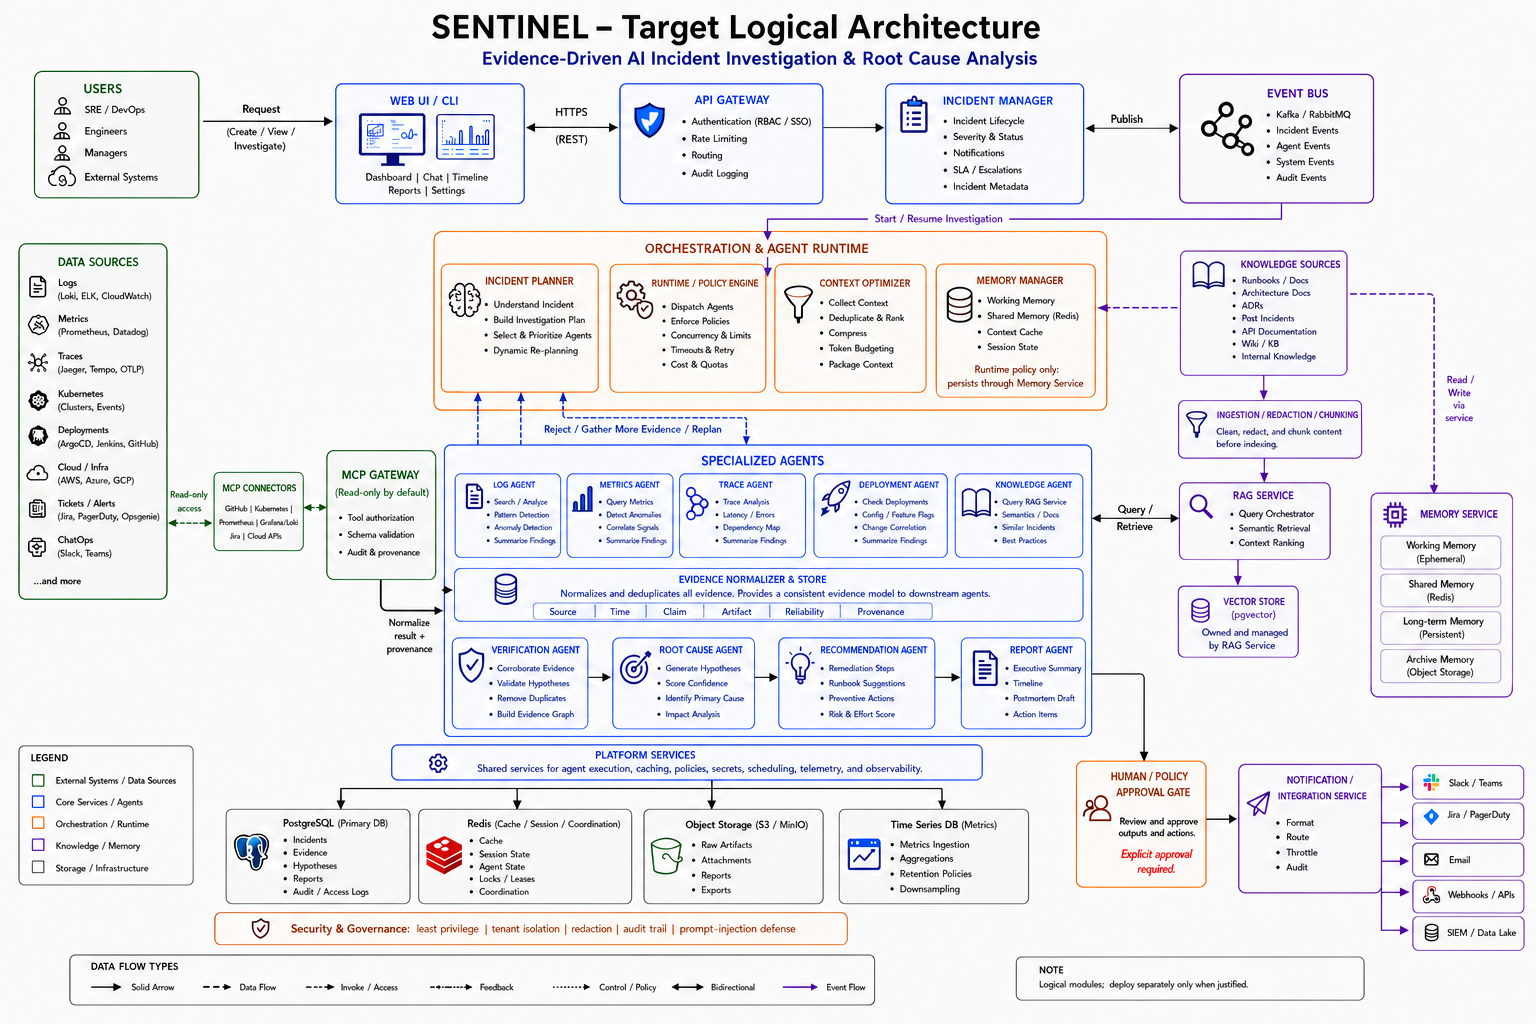
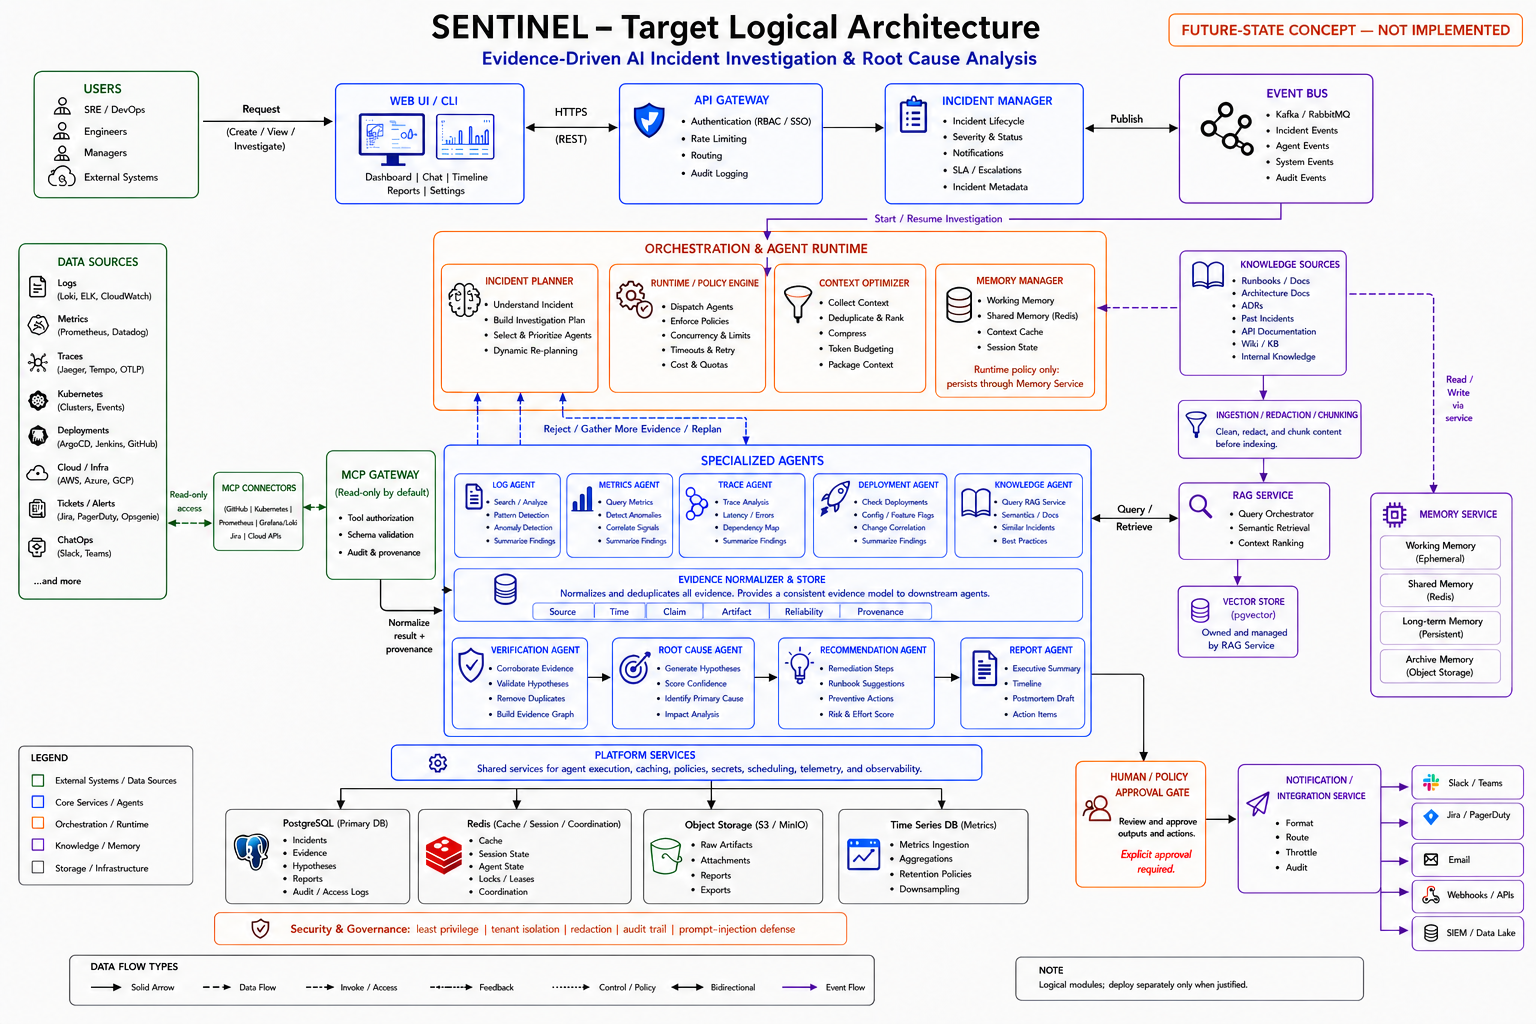
commit

diff --git a/docs/mvp-technical-specification.md b/docs/mvp-technical-specification.md
@@ -18,7 +18,7 @@ architecture.
 
 ## Implementation status
 
-Last reviewed: 2026-08-04
+Last reviewed: 2026-08-11
 
 Status notation:
 
@@ -58,6 +58,14 @@ Status notation:
 - `[x]` Manual Evidence creation and retrieval API
 - `[x]` Loki log storage and read-only connector
 - `[x]` Prometheus metric storage and read-only connector
+- `[x]` Alertmanager-compatible webhook ingestion with durable notification storage and HTTP 202 acknowledgement
+- `[x]` Distinct alert-occurrence handling that prevents webhook retries from inflating recurrence counts
+- `[x]` Separately deployed ingestion worker for Loki log and Tempo trace correlation
+- `[x]` Neural evidence embeddings through local Ollama `embeddinggemma`
+- `[x]` PostgreSQL/pgvector similarity search and similar-incident clustering
+- `[x]` Separately deployed, read-only Sentinel Incident RAG API
+- `[x]` Question embeddings, incident retrieval, and grounded answers with source logs, traces, and recurrence metadata
+- `[x]` Local Ollama answer provider with optional OpenAI provider
 - `[ ]` Deployment/change evidence connector
 - `[ ]` Investigation orchestrator
 - `[ ]` Persisted investigation timeline and hypotheses
@@ -66,7 +74,8 @@ Status notation:
 - `[ ]` Root Cause Agent
 - `[ ]` MCP Gateway
 - `[ ]` First read-only MCP integration
-- `[ ]` RAG and knowledge evidence
+- `[x]` RAG over persisted incident evidence bundles
+- `[ ]` External runbook and operational-document knowledge ingestion
 - `[ ]` RCA report generation
 - `[ ]` Human review workflow
 - `[ ]` Web UI beyond Swagger
@@ -87,7 +96,7 @@ Status notation:
 - `[x]` Import cumulative request, failure, and p95 latency Metric Evidence
 - `[x]` Confirm a stored trace contains `DependencyTimeout` and HTTP 504
 - `[x]` Restart Tempo and retrieve the same trace from persistent storage
-- `[x]` Run the current automated suite successfully: 36 of 36 tests
+- `[x]` Run the current automated test projects successfully (verified 2026-08-11)
 - `[x]` Create and retrieve Sentinel incidents through PostgreSQL
 - `[x]` Persist incidents through a Sentinel API restart
 - `[x]` Persist Evidence through a Sentinel API restart
@@ -97,6 +106,11 @@ Status notation:
 - `[x]` Persist explicit Tempo trace ID, span ID, and service provenance
 - `[x]` Commit each normalized trace import as one atomic Evidence batch
 - `[x]` Emit structured trace import, not-found, validation, and source-failure logs
+- `[x]` Receive an Alertmanager webhook and durably acknowledge it with HTTP 202
+- `[x]` Correlate a pending alert occurrence with related Loki logs and Tempo traces
+- `[x]` Store a neural incident vector and assign a similarity cluster
+- `[x]` Query the separate Incident RAG API and return a grounded answer with source evidence
+- `[x]` Report recurrence from distinct similar occurrences rather than webhook delivery attempts
 - `[ ]` Persist versioned hypotheses and Evidence relationships in PostgreSQL
 - `[x]` Repeat Tempo collection without creating duplicate Evidence
 - `[ ]` Correlate trace, log, metric, and deployment evidence
@@ -310,7 +324,7 @@ MVP data includes:
 - Agent and model execution audit records
 - Human review decisions
 - RCA reports
-- Knowledge-document metadata and embeddings when RAG is introduced
+- External knowledge-document metadata and embeddings when document ingestion is introduced
 
 `jsonb` is used for bounded source-specific attributes and provenance. pgvector
 is used for semantic retrieval indexes. A vector is never the authoritative
@@ -654,10 +668,15 @@ inspection are suitable candidates.
 
 ## 9. Knowledge retrieval and RAG
 
-RAG adds targeted operational context from runbooks, architecture decisions,
-service documentation, prior incidents, and API documentation.
+The implemented Sentinel Incident RAG retrieves semantically similar persisted
+incident evidence bundles from PostgreSQL/pgvector. It embeds the operator's
+question, retrieves relevant alerts, logs, traces, similarity clusters, and
+recurrence metadata, and asks the configured answer model to produce a grounded
+answer with source identifiers.
 
-RAG requirements:
+External knowledge retrieval from runbooks, architecture decisions, service
+documentation, and API documentation remains future work. Requirements for that
+extension are:
 
 - Index only authorized documents.
 - Preserve document ID, version, location, and access scope.
@@ -667,8 +686,9 @@ RAG requirements:
 - Create Knowledge evidence with resolvable citations.
 - Keep the source text authoritative; embeddings are retrieval indexes only.
 
-RAG is added after operational evidence collection works. It must not become a
-substitute for trace, log, metric, or deployment evidence.
+External document knowledge must complement rather than replace trace, log,
+metric, or deployment evidence. The current RAG service remains read-only and
+separately deployed from ingestion.
 
 ## 10. Human review and safety
 

diff --git a/docs/ingestion-system-design.md b/docs/ingestion-system-design.md
@@ -1,5 +1,11 @@
 # AI-Assisted Telemetry Ingestion — System Design
 
+> **Status: Target / future-state design — not implemented today.**
+> This document describes the planned agent-assisted ingestion architecture.
+> For the live deterministic MVP, see the
+> [implemented architecture](../DataFlow-Implemented.png) and the current
+> [README](../README.md).
+
 ## 1. Purpose
 
 The ingestion subsystem turns a Prometheus Alertmanager notification into a
